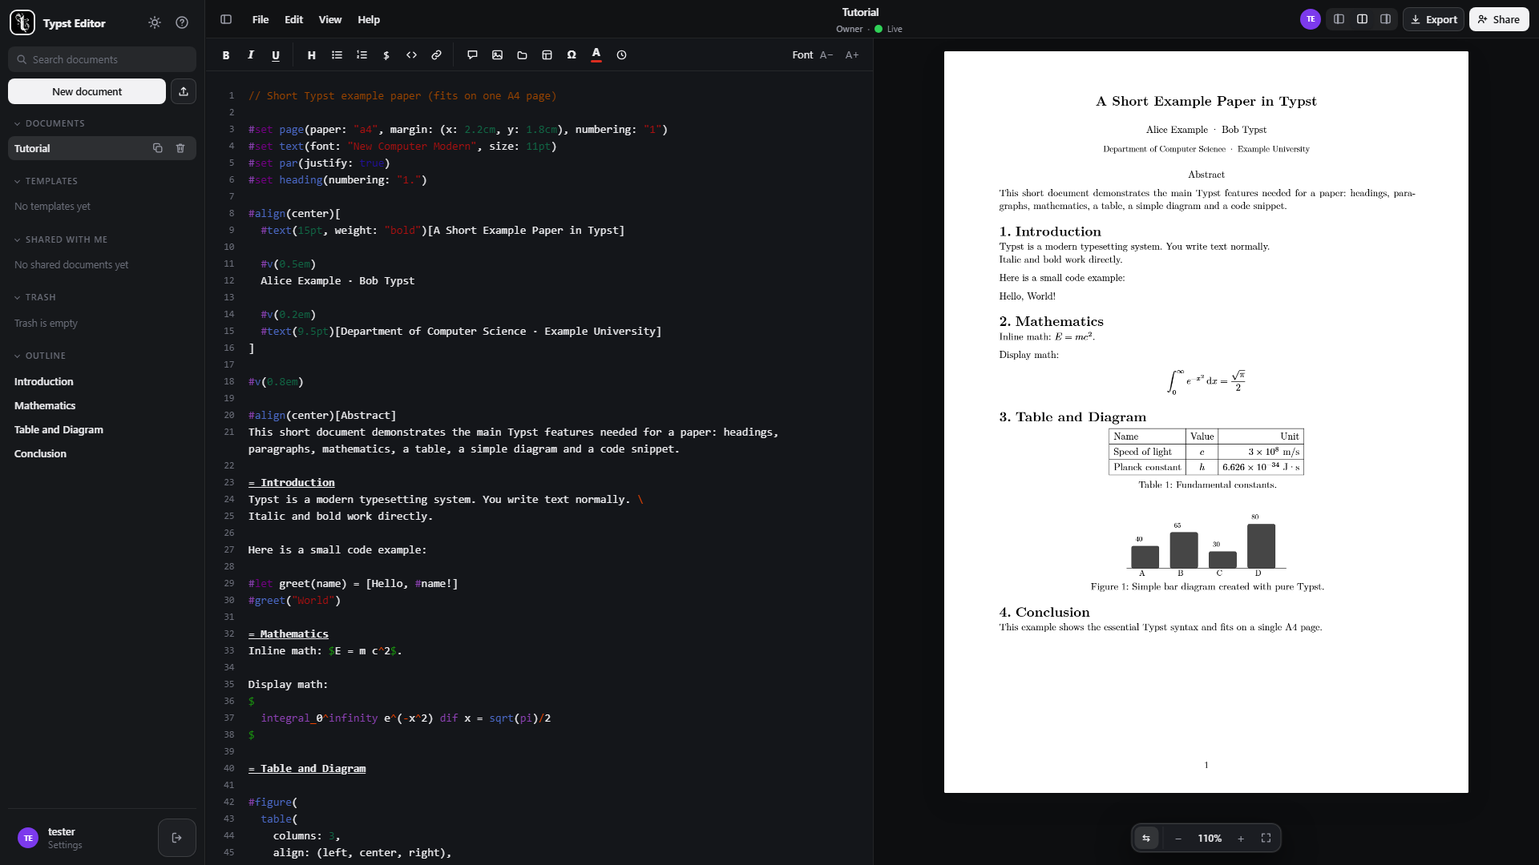
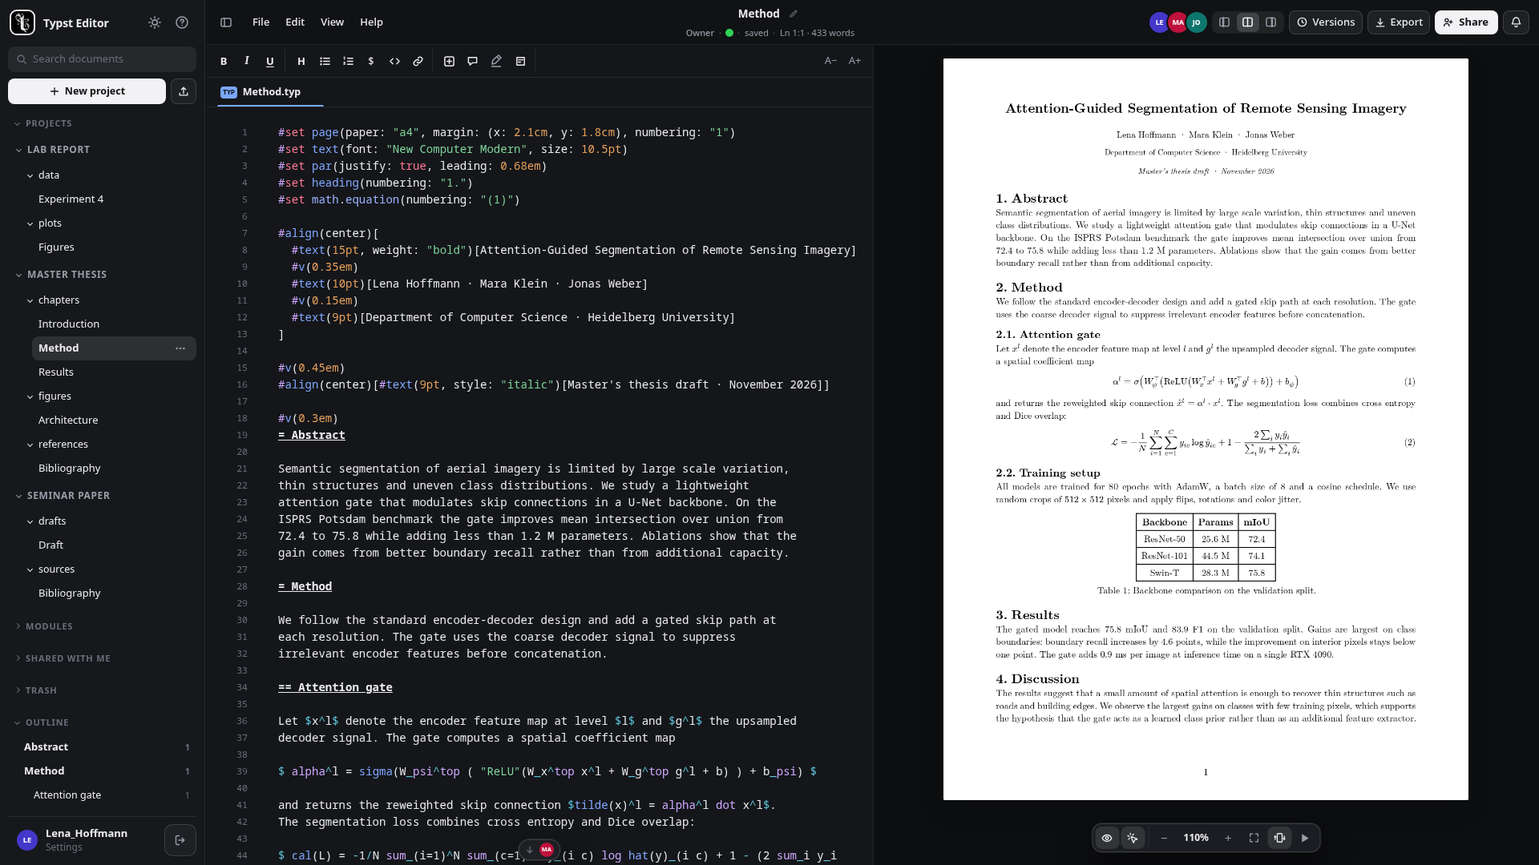
docs: refresh README and demo screenshot

diff --git a/README.md b/README.md
@@ -1,281 +1,74 @@
-# 📝 Typst Editor
+<p align="center">
+  <img src="./icon-192.png" width="88" height="88" alt="Typst Editor logo" />
+</p>
 
-[![ci](https://github.com/fl-grtg/typst-editor/actions/workflows/ci.yml/badge.svg)](https://github.com/fl-grtg/typst-editor/actions/workflows/ci.yml) [![docker](https://github.com/fl-grtg/typst-editor/actions/workflows/docker.yml/badge.svg)](https://github.com/fl-grtg/typst-editor/actions/workflows/docker.yml) [![license](https://img.shields.io/github/license/fl-grtg/typst-editor)](./LICENSE)
+<h1 align="center">Typst Editor</h1>
 
-Collaborative Typst editor in the browser: code left, live PDF right.
+<p align="center">
+  <strong>Collaborative Typst editing on your own server.</strong><br />
+  Source and live PDF side by side, projects the whole team can work in, and review tools for people who shouldn't touch the source.
+</p>
 
-One process: FastAPI serves the API, Yjs syncs edits, SQLite stores all. No Node at runtime.
+<p align="center">
+  <a href="#installation"><strong>Install</strong></a> ·
+  <a href="CONTRIBUTING.md">Contributing</a> ·
+  <a href="SECURITY.md">Security</a> ·
+  <a href="LICENSE">License</a>
+</p>
 
-<img width="1920" height="1080" alt="editor" src="./docs/screenshot.png" />
+<p align="center">
+  <a href="https://github.com/fl-grtg/typst-editor/actions/workflows/ci.yml"><img src="https://github.com/fl-grtg/typst-editor/actions/workflows/ci.yml/badge.svg" alt="CI" /></a>
+  <a href="https://github.com/fl-grtg/typst-editor/actions/workflows/docker.yml"><img src="https://github.com/fl-grtg/typst-editor/actions/workflows/docker.yml/badge.svg" alt="Docker" /></a>
+  <a href="./LICENSE"><img src="https://img.shields.io/github/license/fl-grtg/typst-editor" alt="License" /></a>
+</p>
 
-## ✨ Features
+<a href="./docs/screenshot.png">
+  <img src="./docs/screenshot.png" width="100%" alt="Typst Editor with Typst source on the left and a live PDF preview on the right" />
+</a>
 
-- Live PDF preview, compiled in browser (Typst 0.15.1 via typst.ts 0.8.0-rc3 WASM, pdf.js render)
-- Realtime collab via Yjs over `WS /ws/{doc_id}`, presence included, cookie-only auth
-- Owner/editor/reviewer project roles (reviewer = read + comment + propose); legacy single-doc shares remain doc-scoped — a doc guest sees only that document plus its reachable sources, never the project member list or other docs
-- Comment threads with line anchors, @-mentions, one-level replies, resolve, edit
-- Outline from `=` headings, symbol picker, autocomplete (`#image`/`#include`), find/replace
-- Images and generic file attachments via upload button or project drag & drop; clipboard images can be pasted into the editor
-- Private module collection per account plus shared project library, reused via `#include`; no private fallback at compile time, local files win
-- Project checkpoints: protected manual saves plus retained automatic saves (at most every 15 min), per-file compare, restore saves `Before restore` first
-- Projects with multiple independently compilable docs, shared modules/attachments, two-stage trash (project archived until its last doc is hard-deleted), copy/move/duplicate, search over titles + content
-- Per-document export `.typ`, PDF, SVG, PNG; document source ZIP vs project ZIP (see below) with no full project round-trip promise
-- Yjs live sync with write-behind flush (nominal ~2 s interval + on last disconnect; no guaranteed loss bound — failed flushes, quota blocks or load can delay persistence), 24 h local stash with opt-in restore (no merge guarantee), plain HTTP cache without service worker, font/zoom/theme settings
-- Account settings: avatar (PNG/JPEG/WebP, 200 KB), rename, password change, delete
-- Per-user quotas (private originals and project copies counted separately toward the owner; effective limit is `quota.user_cap` = configured cap + one-time `migration_bytes` allowance for the existing project library, visible via `GET /api/me` `storage{used,limit,migration_allowance}` + Settings) + per-endpoint rate limits, enforced server-side
+Typst Editor is a browser-based workspace for Typst documents that several people work on at once. Edits sync live, and the PDF is compiled in your own browser with Typst as WebAssembly, so there is no compile service to run or trust. On the server it is a single process: FastAPI for the API, Yjs for sync, SQLite for storage, and no Node at runtime.
 
-## 🚀 Get Started
+- **Live editing and preview.** Everyone sees changes as they are typed, with presence indicators. The PDF rebuilds locally in each browser.
+- **Projects, not loose files.** A project holds several documents that compile independently, plus shared modules, templates, bibliographies and attachments. Checkpoints let you compare versions and roll back.
+- **Roles and review.** Owners, editors and reviewers. Reviewers read, comment on lines, @-mention people and propose changes; owners and editors decide what gets accepted. Mentions and proposals arrive in an inbox.
+- **Export.** Each document as `.typ`, PDF, SVG or PNG, or a whole project as ZIP.
+- **Agent access.** API keys with their own role and an MCP endpoint for Claude Code, OpenCode and similar clients. A ready-made skill lives in `skills/typst-editor`.
+- **Built for self-hosting.** Invite-only signup, per-user quotas and per-endpoint rate limits.
 
-Docker (no config needed):
+## Installation
+
+You need Docker. Both setups keep data in a volume and listen on loopback only.
 
 ```bash
+docker run -d --name typst-editor \
+  --restart unless-stopped \
+  -p 127.0.0.1:8978:8978 \
+  -v typst-data:/app/data \
+  ghcr.io/fl-grtg/typst-editor:main
+```
+
+Or with Compose: grab [`compose.yml`](https://raw.githubusercontent.com/fl-grtg/typst-editor/main/compose.yml) and start it.
+
+```bash
+curl -fsSLO https://raw.githubusercontent.com/fl-grtg/typst-editor/main/compose.yml
 docker compose up -d
-docker compose logs app | grep "invite code"
-# Windows PowerShell: docker compose logs app | Select-String "invite code"
 ```
 
-Uses the `main` image; run `docker compose pull` before upgrading. Data stays in a managed volume. For a host path, replace `typst-data:/app/data` with `./data:/app/data` and run `mkdir -p data && chown -R 999:999 data` first (Linux/macOS/WSL). Compose publishes only on loopback (`127.0.0.1:8978:8978`). For LAN access, change that mapping to `8978:8978`; Docker-published ports can bypass host firewalls. Restrict/filter the published port and use a reverse proxy for TLS.
+The image tracks the rolling `main` build, so run `docker compose pull` (or `docker pull`) before upgrading. To reach the app from other machines, change the port mapping and put a reverse proxy with TLS in front of it. For a locked-down container, the repo also ships `compose.hardened.yml`, an overlay with a read-only filesystem, dropped capabilities and `no-new-privileges`.
 
-Sign up at `http://127.0.0.1:8978` with the invite code from the logs. Custom setup only: `cp .env.example .env`. Custom port: change `environment.PORT` and both sides of the `ports` mapping in `compose.yml` (default `8978`). The container binds `0.0.0.0` by default (`HOST`); keep that for published ports — host exposure is controlled by `ports`. Build local: `docker build -t ghcr.io/fl-grtg/typst-editor:main .`.
-
-### ⬆ Upgrading from the old Compose file
-
-Stop the old stack (`docker compose down`) and back up the data volume or host directory before switching. `compose.yml` pins `HOST=0.0.0.0`, `PORT=8978`, and `DATA_DIR=/app/data`, so those `.env` values are ignored; `COMPOSE_DATA_PATH` is no longer used. Other `.env` settings still apply.
-
-- Custom port: change `environment.PORT` and both sides of the `ports` mapping in `compose.yml` instead of `.env`.
-- Host path: either keep mounting the old path at `/app/data` or copy the database and files into the named `typst-data` volume before first start. Existing installs using the default volume reuse it.
-- Detailed migration commands: see the upgrade notes in `RELEASE_NOTES.md`.
-
-### 🛡 Hardened deployment (optional)
-
-For `read_only`, dropped Linux capabilities, and `no-new-privileges`:
+Open `http://127.0.0.1:8978` and sign up with the invite code from the logs:
 
 ```bash
-docker compose -f compose.yml -f compose.hardened.yml up -d
+docker logs typst-editor 2>&1 | grep "invite code"   # docker run
+docker compose logs app | grep "invite code"         # docker compose
 ```
 
-The base `compose.yml` remains the default; the overlay is opt-in and does not add CPU or memory limits.
+The code is generated on first start and saved to `DATA_DIR/.invite_token`. For a public server, set `REGISTRATION_INVITE_TOKEN` before the first start.
 
-Local Python 3.11:
+## Contributing
 
-```bash
-python -m venv .venv
-.venv\Scripts\activate  # Windows (source .venv/bin/activate on Linux/macOS)
-pip install -r requirements.txt
-uvicorn backend.main:app --host 127.0.0.1 --port 8978 --workers 1
-```
+Small, focused changes are easiest to review; open an issue first for anything larger and run `make check` before a PR. Details are in [CONTRIBUTING.md](CONTRIBUTING.md), and security reports go through [SECURITY.md](SECURITY.md).
 
-Registration is `invite-only`. Fresh Docker installs print a token on first start (stored `chmod 600` as `DATA_DIR/.invite_token`). Every account needs it. Public servers: set `REGISTRATION_INVITE_TOKEN` before first start (`openssl rand -hex 32`). Empty token blocks registration (fail-closed). `open` is for local tests only.
+## License
 
-## ⚙ Configuration
-
-File + env overrides; env wins. Parsed in `backend/config.py`. `.env.example`/`config.example.toml` mirror it.
-
-| ENV | Default | Notes |
-| --- | --- | --- |
-| `DATA_DIR` | `./data` | SQLite + uploads; `/app/data` in container. |
-| `TRUST_PROXY` | `false` | Set `true` behind a proxy, else cookies break. |
-| `FORWARDED_ALLOW_IPS` | `127.0.0.1,::1` | Peers allowed to send `X-Forwarded-*` (CIDR ok); same value goes to uvicorn. Never `*` with `TRUST_PROXY=true` (refuses to start). |
-| `REGISTRATION` | `invite-only` | `closed`, `invite-only`, or `open`. |
-| `REGISTRATION_INVITE_TOKEN` | empty | Min 16 chars when set, else start refuses. |
-| `SESSION_SECONDS` | `1209600` | 14 days. |
-| `MAX_DOCS_PER_USER` | `100` | Plus `MAX_BYTES_PER_USER` (default 500 MB) and `MAX_FILES_PER_DOC` (default 200). Private originals and project copies count separately toward the owner. Effective limit is `quota.user_cap` = cap + one-time `migration_bytes` (v19, existing project library in bytes); `GET /api/me` reports `storage{used,limit,migration_allowance}`. |
-
-Never commit `config.toml` or `.env`; only `.example` files are tracked.
-
-## 📡 API
-
-```bash
-curl -s http://127.0.0.1:8978/healthz
-```
-
-Sync runs over `WS /ws/{doc_id}` (y-websocket). Browser auth is cookie-based (`typst_session`, HttpOnly, SameSite=lax); agents use Bearer API keys (see below). Invite tokens go in the POST body, never in the URL. `/?join=TOKEN` and `/?invite=CODE` are entry links only: the app reads the code, strips it from the URL, sends it via POST.
-
-### 🔗 Invite links
-
-- `https://host/?invite=CODE` opens registration with code prefilled (no auto-submit). Needs logged-out browser.
-- `https://host/?join=TOKEN` redeems a doc invite after login. Share via doc Share button.
-
-### 🔑 API keys + MCP
-
-Keys look like `tpe_<8hex>_<32hex>` (only the sha256 hash is stored; the secret is shown once at creation in Settings). Roles: `reviewer` (read + comment + propose, least privilege) or `editor` (default); `expires_in_days` optional (1–365, default never). Change a role in Settings or via `PATCH /api/keys/{id}`; the existing secret stays valid and is never reissued.
-
-```bash
-curl -cj jar.txt -b jar.txt -X POST http://127.0.0.1:8978/api/keys \
-  -H 'Content-Type: application/json' -d '{"name":"agent","role":"reviewer","expires_in_days":90}'
-curl -s -b jar.txt http://127.0.0.1:8978/api/keys
-curl -s -X PATCH -b jar.txt http://127.0.0.1:8978/api/keys/<id> \
-  -H 'Content-Type: application/json' -d '{"role":"editor"}'
-curl -s http://127.0.0.1:8978/api/keys -H "Authorization: Bearer tpe_..."
-```
-
-Claude Code: `claude mcp add --transport http typst-editor http://127.0.0.1:8978/mcp --header "Authorization: Bearer tpe_..."`
-
-OpenCode (`opencode.json`): server `"typst-editor"` with `"type": "remote"`, `"url": "http://127.0.0.1:8978/mcp"`, `"headers": {"Authorization": "Bearer tpe_..."}`.
-
-Agent loop `ls -> read -> edit -> view -> fix`; see `skills/typst-editor/SKILL.md` for the path model and edit rules. Project paths are `/projects/{id}/docs/{Title}/...` and `/projects/{id}/resources/...`; legacy `/docs` and `/shared` paths stay as compatible aliases. Ambiguous legacy titles fail with `409` (use the project path); trashed docs and retired folder routes fail with `410`. Note: `view` returns native image blocks (longest side ≤1280px) + `count`/`cache_hit`/`last_seen` — update server and skill together, the old base64 `pages[]` field is gone.
-
-## 💾 Backup
-
-```bash
-python scripts/backup.py --include-files
-```
-
-Writes `DATA_DIR/backup/app-YYYYMMDD-HHMMSS.db` (`VACUUM INTO`) + `*-files.tar.gz` of `DATA_DIR/files`. Keeps newest 7 (`--keep N`, `--dry-run` to preview). `--keep 0` still keeps 1. Cron: `docker compose exec -T app python scripts/backup.py --include-files`. Backups are plain: `gpg -c DATA_DIR/backup/app-*.db`.
-
-DB dump and files archive are two separate steps with no shared consistent point under writes. Create backups in a maintenance window (stop the server or ensure no writes during the run); the same applies to restore. The automatic DB migration backup covers the database only, not attachments. Source/document ZIPs (`export.zip`, document `zip`, project `export-zip`) are not server backups.
-
-Restore: stop server, copy backup DB + files from the same maintenance window over `app.db`, delete `app.db-wal`/`app.db-shm`, unpack files (`tar -xzf ... -C DATA_DIR`), `chown -R 999:999 DATA_DIR` on host paths, start. Check with `PRAGMA integrity_check;`.
-
-## 🔌 Reverse proxy
-
-Needs `TRUST_PROXY=true`. The shipped Compose file publishes only on loopback; keep the `127.0.0.1:8978:8978` mapping and terminate TLS in the proxy. For LAN access, change it to `8978:8978` and filter/protect the Docker-published port. Caddy:
-
-```
-typst.example.com {
-    encode zstd gzip
-    reverse_proxy 127.0.0.1:8978
-}
-```
-
-nginx (WebSocket needs `http_version 1.1` + `Upgrade`/`Connection`):
-
-```
-server {
-    listen 443 ssl;
-    server_name typst.example.com;
-    ssl_certificate /etc/letsencrypt/live/typst.example.com/fullchain.pem;
-    ssl_certificate_key /etc/letsencrypt/live/typst.example.com/privkey.pem;
-
-    client_max_body_size 12M;
-
-    gzip on;
-    gzip_comp_level 5;
-    gzip_types application/javascript application/wasm application/json text/css image/svg+xml;
-
-    location / {
-        proxy_pass http://127.0.0.1:8978;
-        proxy_http_version 1.1;
-        proxy_set_header Host $host;
-        proxy_set_header Upgrade $http_upgrade;
-        proxy_set_header Connection "upgrade";
-        proxy_set_header X-Forwarded-Proto $scheme;
-        proxy_set_header X-Forwarded-For $proxy_add_x_forwarded_for;
-        proxy_read_timeout 86400s;
-        proxy_send_timeout 86400s;
-        proxy_buffering off;
-    }
-}
-```
-
-Compression matters: the compiler (JS + WASM) is about 72 MB raw and about 26 MB compressed, so keep `encode`/`gzip` on. Without those headers the sync socket stays dead. `client_max_body_size 12M` covers 10 MB uploads. Custom `PORT`: change `environment.PORT` and both sides of the `ports` mapping in `compose.yml`, then point the proxy at the host port.
-
-Uvicorn trusts `X-Forwarded-For`/`Proto` only from `FORWARDED_ALLOW_IPS` (default `127.0.0.1,::1`). Behind compose the proxy uses a `172.x` IP, so extend the default: `FORWARDED_ALLOW_IPS=127.0.0.1,::1,172.16.0.0/12`. Else all clients share one rate-limit bucket. Never `*` with `TRUST_PROXY=true`.
-
-One worker (`--workers 1`), one replica: rooms live in memory; multi-worker exits on purpose. 512 MB min, 1 GB advised; the base Compose file does not enforce CPU or memory limits. No public demo; self-host.
-
-Project checkpoints need editor rights (read/compare for readers); restore saves a `Before restore` copy first. Removing a project member also deletes that member's doc shares in the project and — because invite links carry no username — wipes all pending invites of all project docs (broad revoke). The remove dialog states this broad effect explicitly before confirming (`projects.removeMemberWarning`, implemented in the share UI); per-invite attribution would need a migration and is out of prerelease scope. Project titles are unique per owner case-insensitive (v19 `idx_projects_owner_title_nocase`): create auto-suffixes (`Title (2)`…, truncated to 100 chars), rename rejects collisions with `409`, existing collisions were suffixed once during migration. File/resource rename is two-step: `POST /api/projects/{id}/rename-entry-preview` returns `{name, version, references}`, `POST /api/projects/{id}/rename-entry` requires that `version` (`409` on stale state); the UI shows the static references + dynamic-path hint and asks for confirmation before renaming (no automatic reference rewrite). Over-quota migration state stays readable/exportable/deletable; v19 grants a one-time permanent `migration_bytes` allowance (size of the existing project library in bytes at migration time, `user_cap` = cap + allowance, no recurring grant for new copies): new writes fail with `413` until space is freed.
-
-Limits: 200000 UTF-8 bytes per doc (`MAX_TXT` in `backend/constants.py`); doc titles unique per project NOCASE + project titles unique per owner NOCASE, each 100 chars (project create auto-suffixes, document-create/project-rename collisions → `409`; v19 suffixed existing project collisions once); file/resource rename needs the `version` from `rename-entry-preview` (`409` on stale state); uploads 10 MB per file; manual project checkpoints stay protected, automatic checkpoints retain the newest 10 plus one per week within 5 weeks and the creation checkpoint (legacy per-doc snapshots keep their 50-cap), auto at most every 15 min; invites valid 7 days, max 20 per doc, multi-use (token shown once); search needs 2 chars, max 20 hits, docs + reachable project resources; default quotas 100 docs + 500 MB per user, 200 files per doc (see Configuration); avatars 200 KB; exports capped at 100 MB, files over 10 MB go to `SKIPPED.txt`; old folder routes answer `410`, ambiguous legacy MCP titles answer `409`; reads share `files_list` bucket (120/min); MCP calls share the `mcp` bucket (60/min).
-
-### 🔒 Security Contact
-
-Report vulns via GitHub Private Vulnerability Reporting.
-No public issues for security problems.
-Allow time for a fix before disclosure.
-
-No CDN for code delivery (local `vendor/` bundle; no service worker since 2026-10-03, plain HTTP cache). First load works offline except `@preview` package fetches from `packages.typst.org`. Pins: typst.ts 0.8.0-rc3 = bundled Typst 0.15.1 = CLI 0.15.1 (RC on purpose — latest stable 0.7.0 still bundles Typst 0.14.2, only the RC bundles 0.15.1); pdf.js 3.11.174, yjs 13.6.27, y-websocket 1.5.0. View cache is salted with `typst --version`, so CLI bumps auto-bust it. Afterwards the shell stays in browser cache; saving needs net (24 h stash with opt-in restore, no merge guarantee). `Cache-Control: no-store` on `/`, `*.html`, `*.js`, `/api/*` (see `backend/main.py`); versioned assets (`vendor-cm.js`, `manifest.json`, icons) are `immutable`. CSP needs `unsafe-inline`/`unsafe-eval`/`wasm-unsafe-eval` for Typst WASM; user content renders via `textContent` only. No broad security certification is claimed.
-
-### 🛠 Troubleshooting
-
-- First load is self-hosted; only `@preview` packages need net (`packages.typst.org`). Check console.
-- Single worker only (`--workers 1`). Multi-worker exits on purpose.
-- Behind proxy: `TRUST_PROXY=true`.
-- Port `8978` is loopback-only by default (`127.0.0.1:8978:8978`); change it to `8978:8978` only if you intentionally expose it (Docker-published ports can bypass host firewalls). TLS via proxy.
-- Compose uses a 15 s stop grace period so `sync.flush_all()` can finish; do not shorten it for large rooms.
-- Host path perms only: `chown -R 999:999` on it.
-- `429` on reads: shared `files_list` bucket (120/min), slow down. `429 Export already running`: per-user export lock, wait and retry once.
-- `410`: trashed doc (restore first) or retired folder route (use projects). `409`: name/version conflict — re-read, rename, or use the project path for ambiguous MCP titles.
-
-### 🧪 Develop
-
-```bash
-pip install -r requirements-dev.txt
-python -m pytest
-ruff check backend/ scripts/ tests/
-mypy backend/ scripts/ tests/
-```
-
-Vendor bundle (`cm-build/` → `vendor-cm.js`): `cd cm-build && npm ci && npm run build`. CI fails on diff or >700 KB.
-
-### 📦 Changelog
-
-Version `0.2.0rc1` (`pyproject.toml`) is a prerelease candidate without a tagged release image; the rolling `main` image may contain this code. See `RELEASE_NOTES.md` (candidate draft: breaking changes + limits, no full acceptance claimed) and, once published, GitHub Releases.
-
-## 🛠 Development
-
-```bash
-pip install -r requirements.txt -r requirements-dev.txt
-make dev      # run locally with reload
-make check    # ruff + mypy + frontend build check + tests
-```
-
-The frontend source lives in `web/`; `index.html` is generated (`python web/build.py`). Backend routers are in `backend/routers/`.
-See [CONTRIBUTING.md](CONTRIBUTING.md), [SECURITY.md](SECURITY.md) and [CODE_OF_CONDUCT.md](CODE_OF_CONDUCT.md).
-
-## 💡 Why
-
-Most collab editors need heavy infra or lock you into a cloud. This is one container you self-host: enough collab to work together, small enough to read in one sitting.
-
-## 📜 License
-
-Apache-2.0, see `LICENSE`. Third-party versions in `NOTICE` (pins match the vendored bundle and CSP).
-
-## Modules and source bundles
-
-Project modules, private modules and document-local text files support `.typ`, `.bib`, `.csv`, `.tsv`, `.json`, `.yaml`/`.yml`, `.toml`, `.xml`, `.csl`, and `.txt`. CSV/TSV use a cell editor; BibLaTeX offers a source list and form alongside the raw editor. Structured data editors highlight syntax and validate their content. At compile/export time there is no private fallback: project library + document-local files only, local files win; private modules enter a project only via explicit pull/copy as independent copies.
-
-Use **Export → Source ZIP** for a document bundle (`main.typ` + sources at their original relative paths + `SKIPPED.txt` when oversized files were left out). Upload that ZIP to create a new document in a project: every bundled module becomes a document-local file. Bundles must contain exactly one `main.typ`; nested paths are preserved. Import accepts at most 10 MB compressed and 100 MB unpacked, with the usual per-file limits (200 KB text, 10 MB binary) and configured file-count/quota limits.
-
-Project ZIP (`GET /api/projects/{id}/export-zip`) is a different layout: `project.json` + `modules/…` + `documents/<doc-id>/main.typ` (+ `skipped.json` per doc when needed), limited to what the caller may see. It has no matching full-project importer, so no complete project round-trip is promised; use it for inspection/backup of sources, not as server backup.
-
-
-### Local review and attachment changes
-
-MCP agents use `propose(path, title, files)` to submit the same project packages
-as humans, and `proposals(path, package_id)` to read/correct them. `suggest`
-is a shortcut for one document edit, takes an optional package title (`text`, max 100 characters), and now returns a package; `suggestions`
-lists project packages (the old comment-suggestion response is retired).
-Reviewer keys can propose without modifying source. Binary originals are
-available with `read(path, binary=true)`. Packages support text edits, new
-documents/modules/attachments, binary uploads/replacements, deletion and rename.
-Document add uses `target` as its title; document rename also carries
-`original_title`. File/module renames need explicit reference edits in the same
-package; known dependency conflicts block incomplete acceptance. Review uses
-the existing proposal mode, with no separate agent review interface.
-
-The editor's **Suggest** mode gives project members a tracked draft spanning
-documents, modules and attachments. `/api/projects/{id}/proposals` lists and
-creates packages; `PATCH /{package_id}` corrects a versioned package and
-`POST /{package_id}/accept` accepts all changes, a file, or a passage. Reviewers
-can propose; owners/editors decide. Large local drafts are stored in IndexedDB.
-
-Document-only guests keep the separate tracked text draft. Sending creates up
-to 50 non-overlapping proposals atomically;
-`POST /api/docs/{id}/suggestions/batch` accepts a `changes` list with `old_string`,
-`new_string`, and optional `text`. Owner/editor decisions use
-`POST /api/docs/{id}/suggestions/{suggestion_id}/accept` or `/reject`.
-Acceptance checks the current original text and applies a Yjs edit; proposals
-never grant source-write permission to reviewers. Stale originals return `409`.
-
-Spelling language is account-wide (`auto`, `de`, `en`, `off`), saved by
-`POST /api/me/preferences` with `spell_language` and returned by `GET /api/me`.
-Migration 20 adds suggestion metadata; migration 21 adds the account preference.
-Migrations 22–25 add recoverable file/module trash, project proposal packages,
-the trash index and explicit checkpoint retention kinds. Ambiguous legacy
-checkpoints remain protected from automatic pruning.
-
-Project drag-and-drop and the main upload control accept arbitrary attachment
-extensions (10 MB per binary attachment). Text-source limits remain 200 KB.
-Downloads use attachment disposition and `nosniff`; generic files are not text
-editors. Images open in the image viewer. Path traversal remains rejected.
+Apache-2.0, see [LICENSE](LICENSE). Third-party components are listed in [NOTICE](NOTICE).
